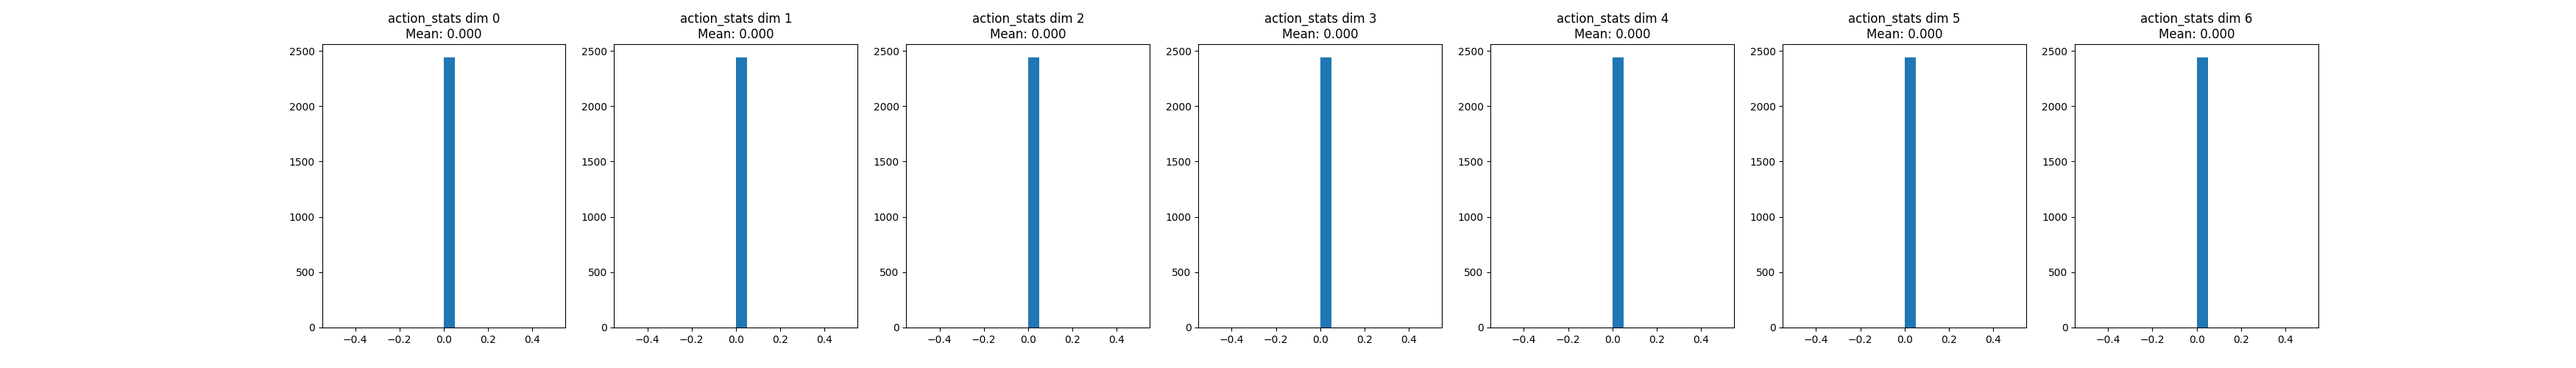
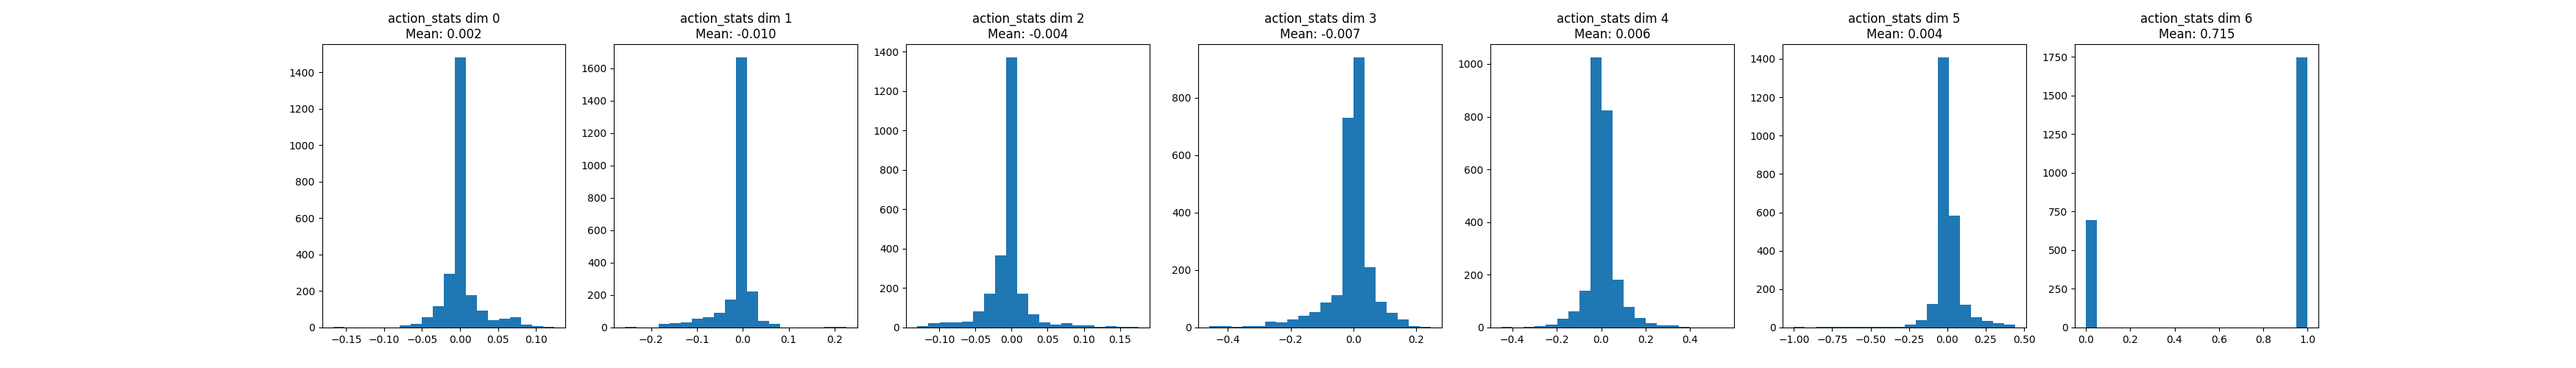
fixed the retrieved action + cleaned files

diff --git a/do_manual/do_manual_dataset_builder.py b/do_manual/do_manual_dataset_builder.py
@@ -22,6 +22,9 @@
 
                 tip_state #1x1 
 
+
+use rlds_env (the one described in the original repo)
+
 cd /home/malak.mansour/Downloads/ICL/DO_manual_rlds_builder/do_manual
 tfds build --overwrite
 
@@ -37,52 +40,47 @@ import tensorflow as tf
 import tensorflow_datasets as tfds
 from do_manual.conversion_utils import MultiThreadedDatasetBuilder
 
-
 def _generate_examples(paths) -> Iterator[Tuple[str, Any]]:
     """Yields episodes from DO_manual dataset paths."""
-    # Iterate directly over paths. The episode_path itself (or its basename)
-    # will be used to generate a globally unique key.
     for episode_path in paths:
         try:
             with h5py.File(episode_path, "r") as F:
-                # Collect all step keys sorted by index
                 step_keys = sorted(
                     [k for k in F.keys() if k.startswith("step_")],
                     key=lambda x: int(x.split("_")[1])
                 )
-                
+
                 if not step_keys:
-                    # Optionally, log or print a message for skipped files
-                    # print(f"Skipping empty or malformed file: {episode_path}")
                     continue  # Skip empty files
 
                 episode = []
                 for i, step_key in enumerate(step_keys):
                     try:
                         obs = F[f"{step_key}/observation"]
-
-                        # Extract camera image
                         image = obs["camera/image"][()]
-
-                        # Extract all right arm sensors
                         joint_pose = obs["right/joint_pose"][()]
                         qpose_euler = obs["right/qpose_euler"][()]
                         qpose_quat = obs["right/qpose_quat"][()]
                         tip_state = obs["right/tip_state"][()]
+                        robot_state = np.concatenate([joint_pose, qpose_euler, qpose_quat, tip_state], axis=0).astype(np.float32)
 
-                        # Combine all state values into one vector
-                        robot_state = np.concatenate([
-                            joint_pose, qpose_euler, qpose_quat, tip_state
-                        ], axis=0).astype(np.float32)
 
-                        # Append step
+                        '''
+                        ACTION extraction: 
+                        base and left are all 0s, extra/buttons is empty but doesnt matter, we only want right
+                        base (3) + buttons (?) + left (7) + right (7)
+                        '''
+                        action_group = F[f"{step_key}/action"]
+                        action_right = action_group["right"][()]
+                        
+
                         episode.append({
                             'observation': {
                                 'image': image,
                                 'state': robot_state,
                                 'joint_state': joint_pose.astype(np.float32),
                             },
-                            'action': np.zeros_like(joint_pose, dtype=np.float32),  # Placeholder
+                            'action': action_right.astype(np.float32),
                             'discount': 1.0,
                             'reward': float(i == (len(step_keys) - 1)),
                             'is_first': i == 0,
@@ -94,21 +92,18 @@ def _generate_examples(paths) -> Iterator[Tuple[str, Any]]:
                         print(f"Error processing step {step_key} in {episode_path}: {e}")
                         continue
 
-                if episode:  # Only yield if we have valid steps
+                if episode:
                     sample = {
                         'steps': episode,
                         'episode_metadata': {
                             'file_path': episode_path
                         }
                     }
-                    # Use a unique string key derived from the episode_path.
-                    # os.path.basename() will return the filename, e.g., "place_capsicum_in_pot_episode_4.hdf5"
-                    unique_key = os.path.basename(episode_path)
-                    yield unique_key, sample
-                    
+                    yield os.path.basename(episode_path), sample
         except Exception as e:
             print(f"Error processing file {episode_path}: {e}")
             continue
+
 
 
 class DoManual(MultiThreadedDatasetBuilder):
@@ -153,9 +148,9 @@ class DoManual(MultiThreadedDatasetBuilder):
                         ),
                     }),
                     'action': tfds.features.Tensor(
-                        shape=(7,),
+                        shape=(7,),  # take right only (7)
                         dtype=np.float32,
-                        doc='Placeholder action vector.',
+                        doc='Concatenated action vector: base (3), buttons (?), left arm (7), right arm (7).',
                     ),
                     'discount': tfds.features.Scalar(
                         dtype=np.float32,
